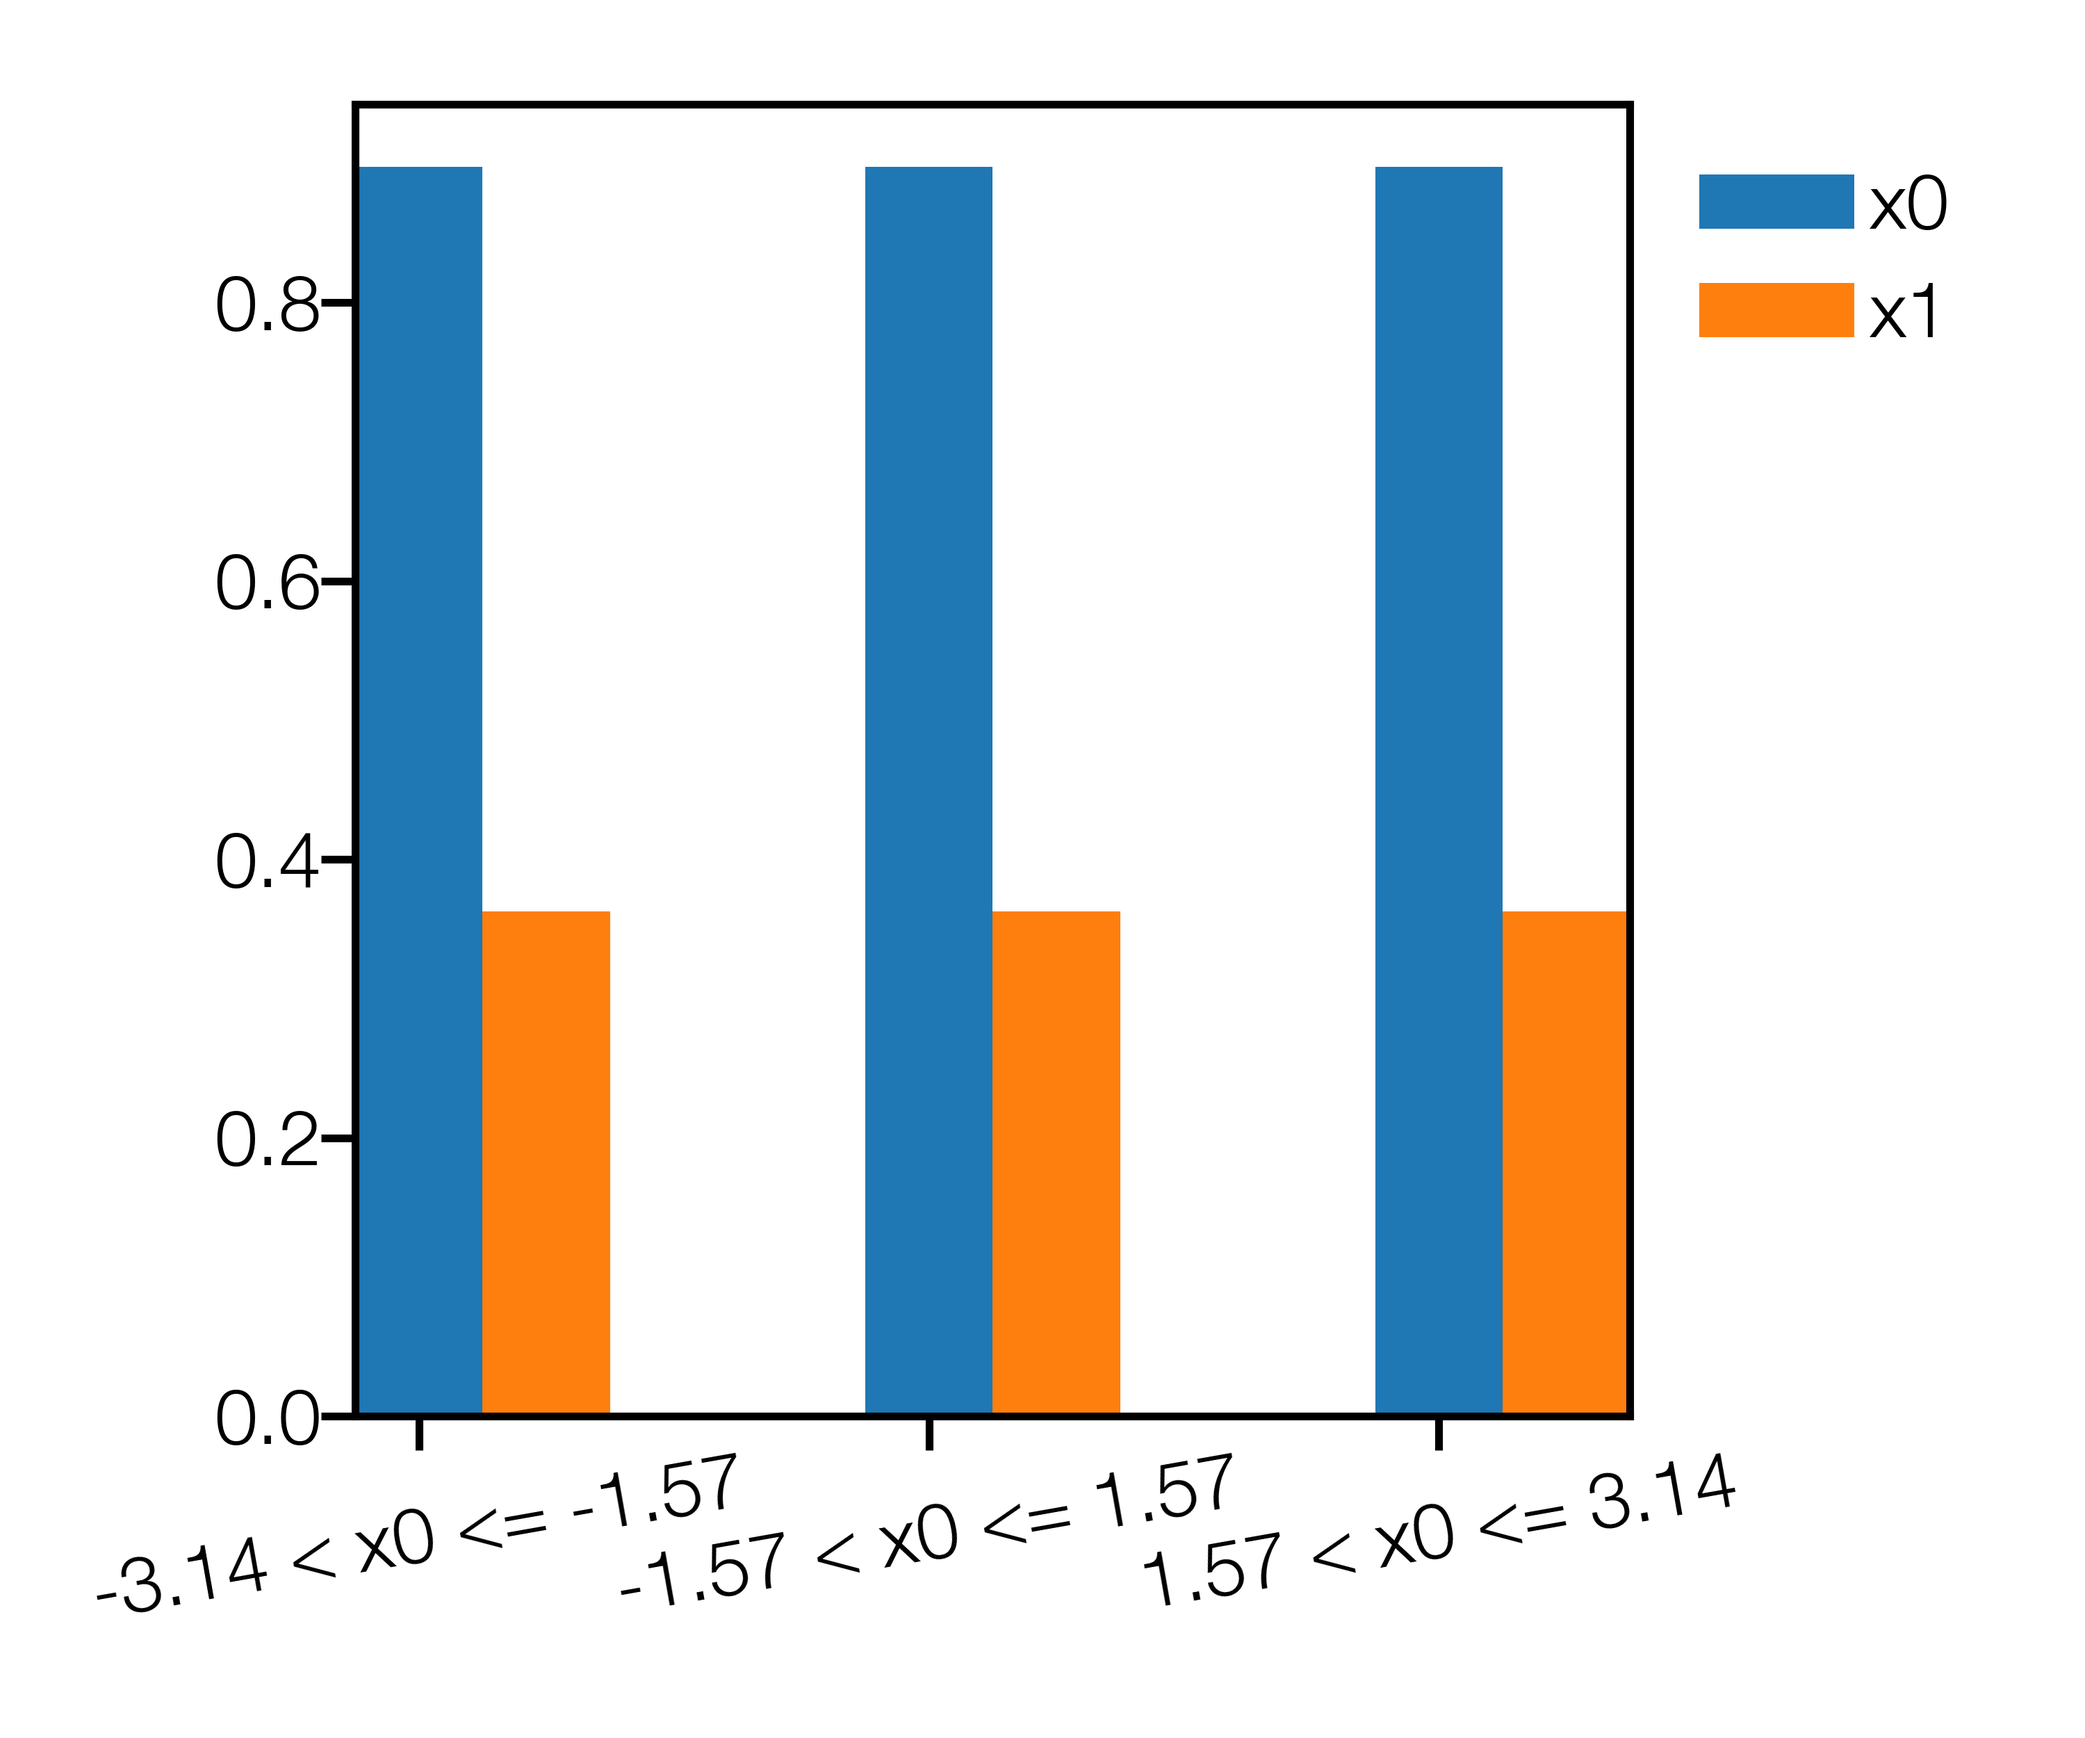
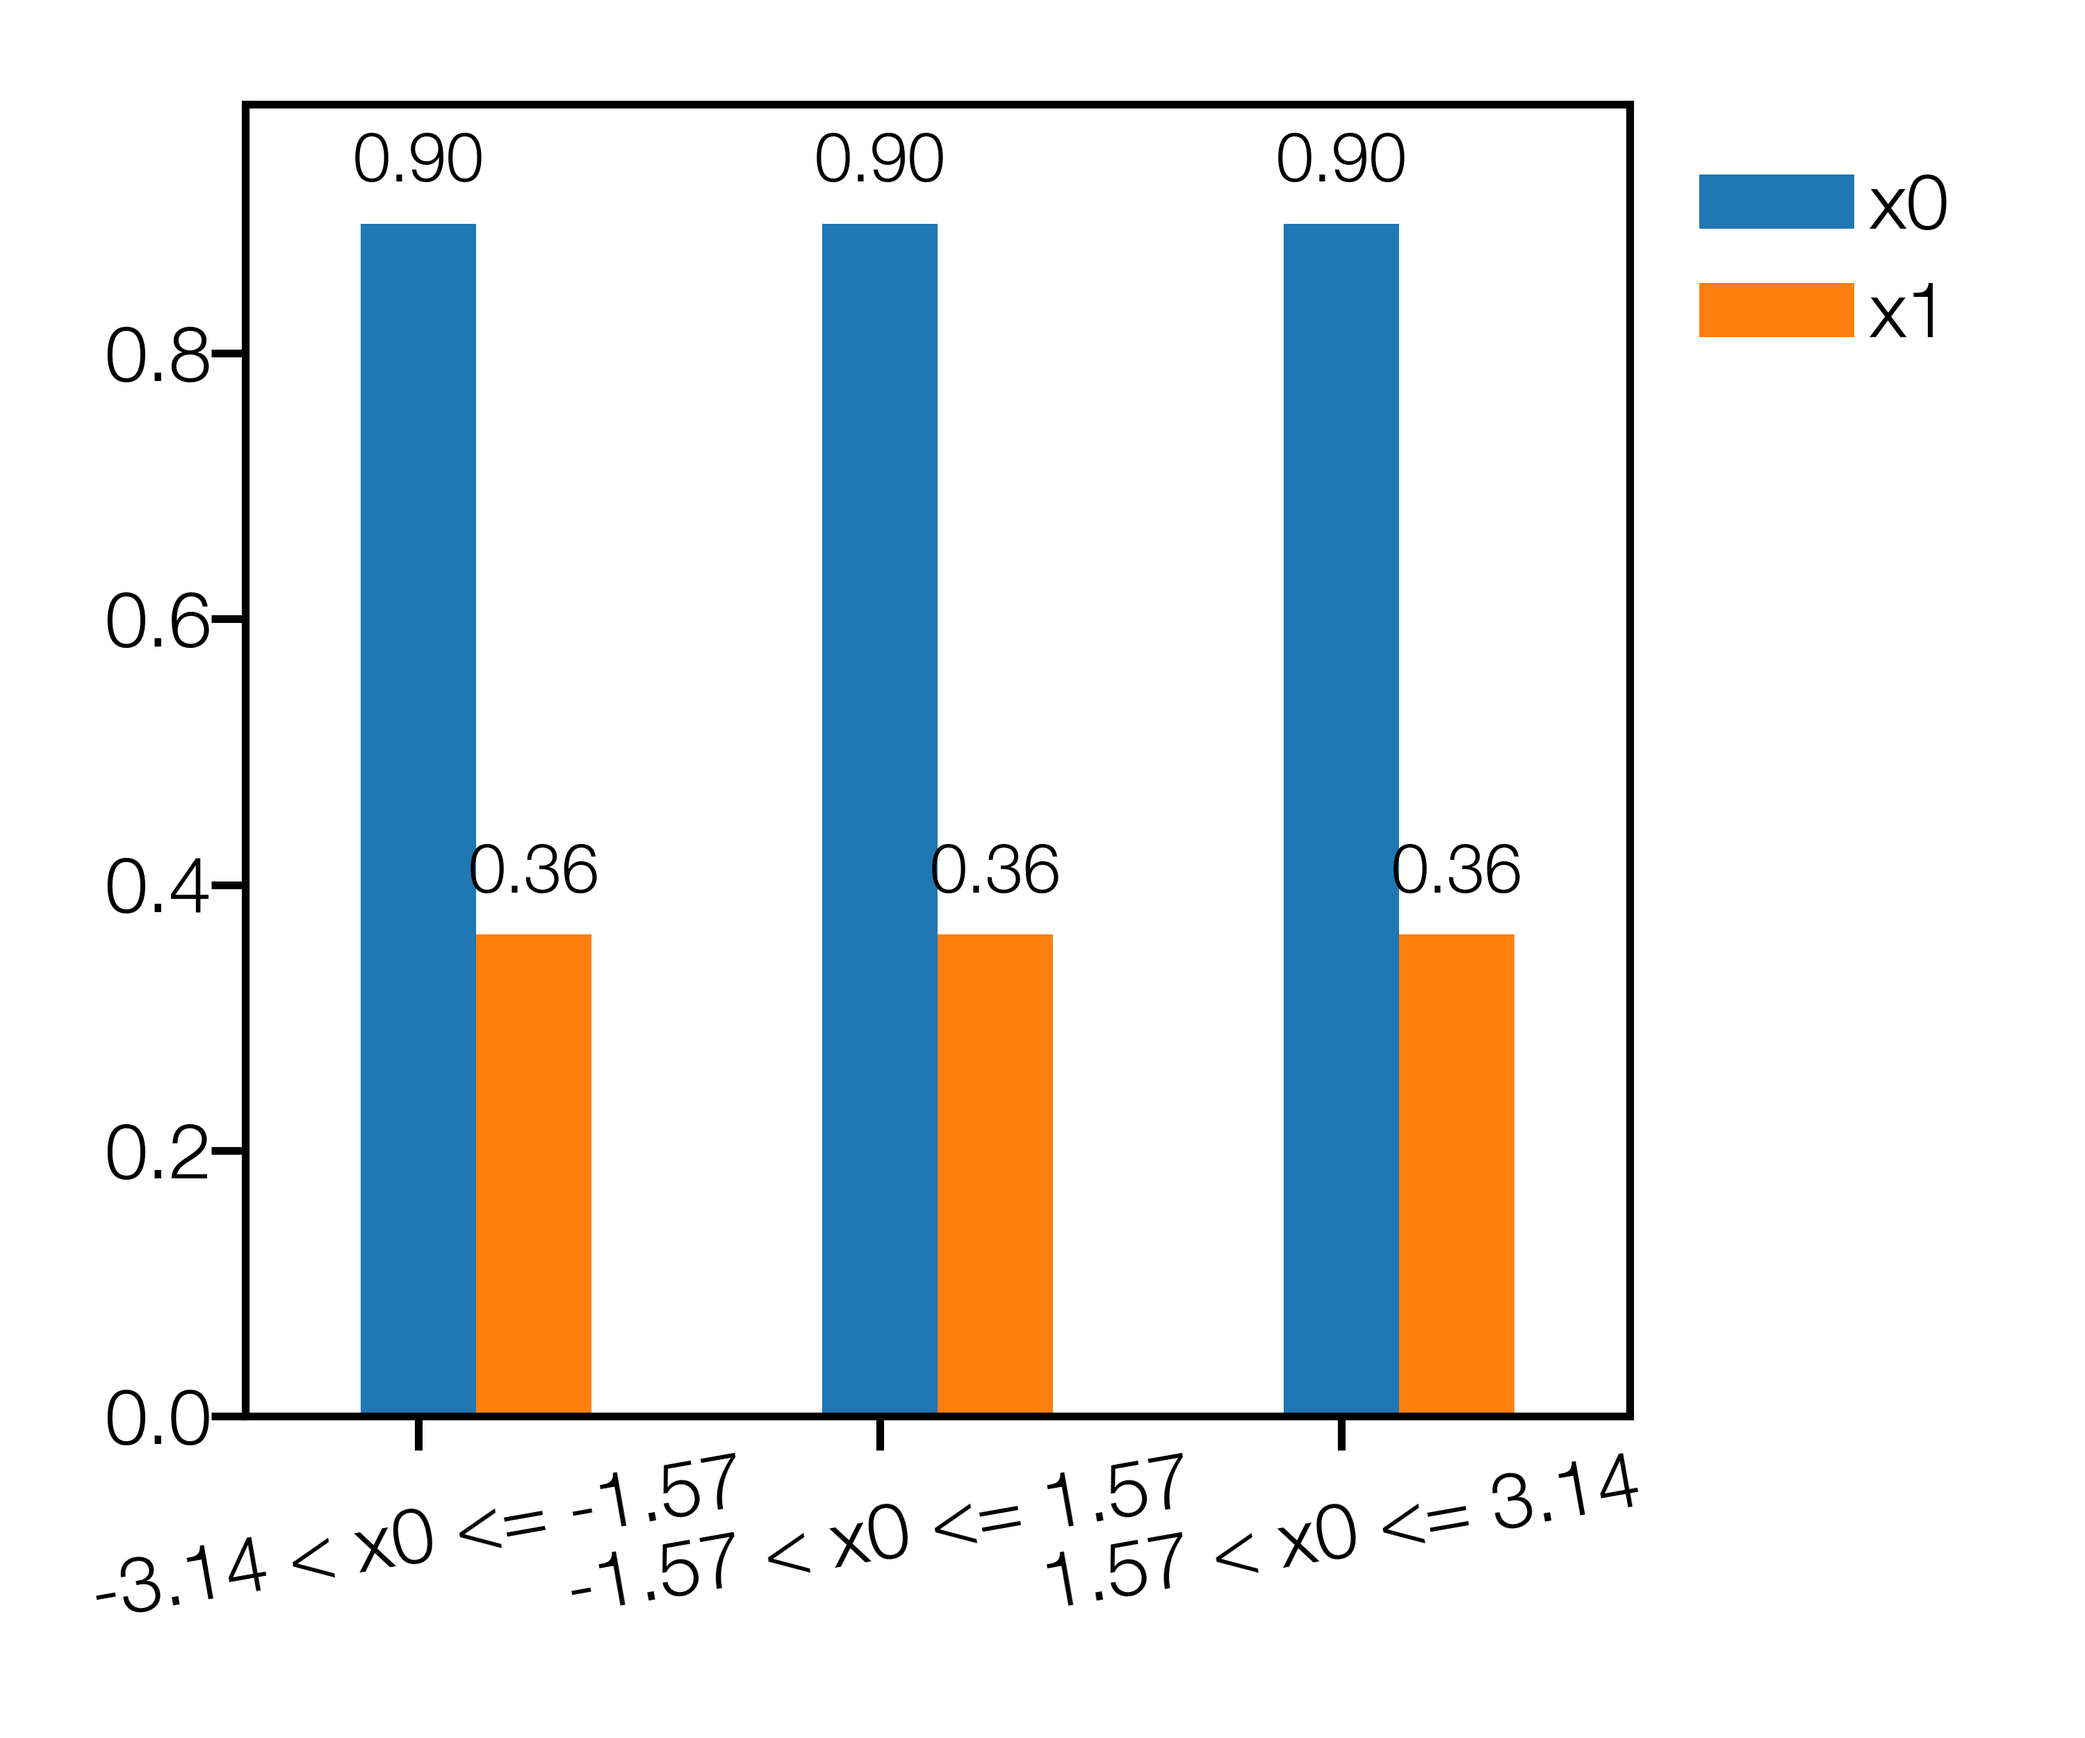
Add bar labels for attribution scores

diff --git a/github/workflows/Hyein/toy_1_coefficients.py b/github/workflows/Hyein/toy_1_coefficients.py
@@ -140,15 +140,21 @@ for xc, d_opt in zip(x_coeff, file_data):
         else:
             scores_interval.append(np.zeros(scores_tot.shape))
 
-    xticks = np.arange(len(masks))
-    xticklabels = [f'{lb:.2f} < x{mask_idx} <= {ub:.2f}' for lb, ub in zip(mask_interval[:-1], mask_interval[1:])]
     width = 0.25
     fig, ax = plt.subplots()
+    max_score = max([max(s) for s in scores_interval])
     for idx in range(scores_tot.shape[0]):
-        ax.bar(xticks + idx * width, [s[idx] for s in scores_interval], width, label=f"x{idx}")
+        bars = ax.bar(xticks + idx * width, [s[idx] for s in scores_interval], width, label=f"x{idx}")
+        ax.bar_label(bars, fmt='%.2f', fontsize=7, padding=3)
+    ax.margins(x=0.1)
+    ax.set_ylim(0, max_score * 1.1)
+
+    xticks = np.arange(len(masks))
+    xticklabels = [f'{lb:.2f} < x{mask_idx} <= {ub:.2f}' for lb, ub in zip(mask_interval[:-1], mask_interval[1:])]
     ax.set_xticks(xticks)
     ax.set_xticklabels(xticklabels, rotation=10, ha='center', fontsize=8)
     ax.legend(loc='upper left', bbox_to_anchor=(1, 1), fontsize=8)
+
     plt.tight_layout()
     plt.savefig(os.path.join(save_dir, f"{save_tag}_scores_L0_interval.png"))
     plt.show()
